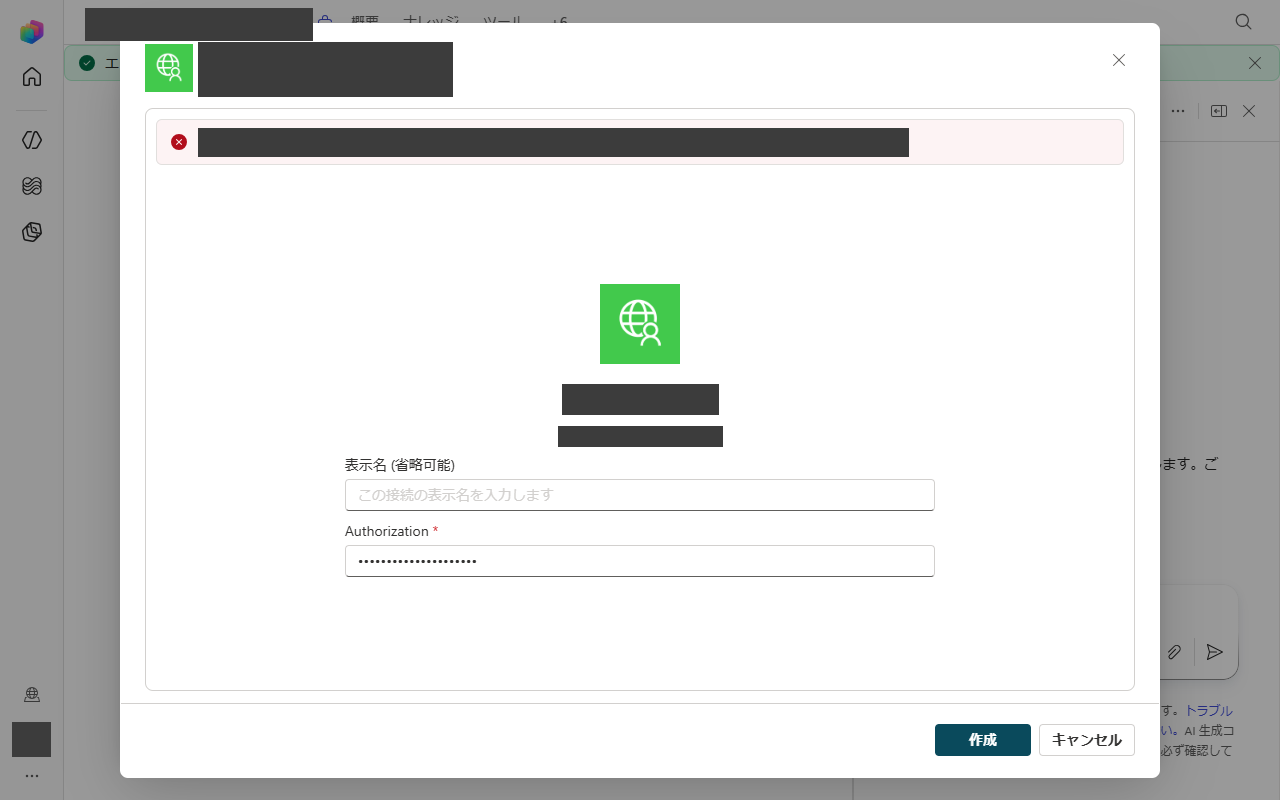
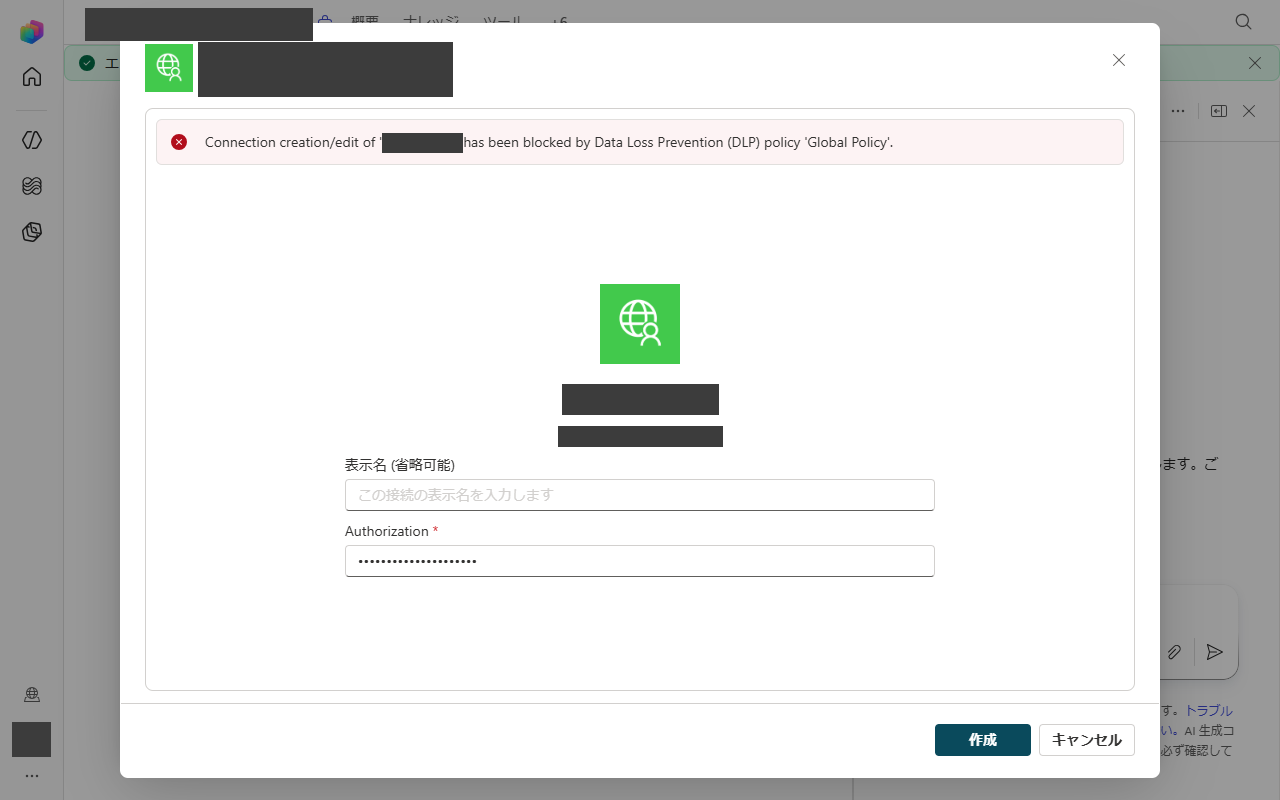
docs: show the policy message in the first screenshot; trim needless commas (#196)

Changed region(s): [[0.1562, 0.1562, 0.7188, 0.2188]]

diff --git a/docs/connector_less_route.md b/docs/connector_less_route.md
@@ -6,15 +6,15 @@
 
 通常、Copilot Studio のエージェントはカスタムコネクタ(MCP コネクタ)を持ち、Dev Tunnel を通してこの PC のツールに届きます。これが**コネクタ経路**です。
 
-**コネクタなし経路**は、コネクタもトンネルも使いません。エージェントは、コネクタも自前のツールも持たない普通の Standard エージェントです。ツールを使いたいときは、チャットの返信に、次のようなコードブロックで呼び出しを書きます。
+**コネクタなし経路**はコネクタもトンネルも使いません。エージェントはコネクタも自前のツールも持たない普通の Standard エージェントです。ツールを使いたいときはチャットの返信に次のようなコードブロックで呼び出しを書きます。
 
     ```call_tool
     {"name": "read_file", "arguments": {"path": "..."}}
     ```
 
-この PC がそのブロックを読み取り、手元のサーバー(`http://127.0.0.1:8000`)に呼び出しを実行して、結果を次のチャットのメッセージで返します。外からこの PC に接続するものはないので、トンネルも公開 URL も、登録するコネクタも要りません。
+この PC がそのブロックを読み取り、手元のサーバー(`http://127.0.0.1:8000`)に呼び出しを実行して、結果を次のチャットのメッセージで返します。外からこの PC に接続するものはないのでトンネルも公開 URL も登録するコネクタも要りません。
 
-どちらの経路も使えます。既定はコネクタ経路のままなので、もう一方を選ばないマシンは何も変わりません。
+どちらの経路も使えます。既定はコネクタ経路のままなのでもう一方を選ばないマシンは何も変わりません。
 
 ## 必要なもの
 
@@ -28,46 +28,46 @@ Dev Tunnel CLI、トンネル、コネクタ、アクセス許可は要りませ
 1. `quickstart.bat` を実行します。「How should Copilot Studio be allowed to reach this machine?」と聞かれたら **L**(connector-less)を押します。アクセスの質問と Dev Tunnel の手順は省かれます。
 2. Copilot Studio で **Standard** エージェントを作ります。**Tools** の一覧は空のままにして、コネクタは追加しません。公開します。
 3. 公開したエージェントを Microsoft 365 Copilot に追加します(Channels から Microsoft 365 Copilot)。そこでエージェントを開き、チャット画面のアドレスをアドレスバーからコピーします。
-4. `quickstart.bat` が開くダイアログに、そのアドレスを貼ります(あとから貼るなら `configure_env.bat`)。エージェントの URL として保存されます。
-5. `docs/examples/connector_less_agent_instructions.txt` の文章を、Copilot Studio のエージェントの **Instructions** に貼って、もう一度公開します。これがないと、Microsoft のツールも付いているエージェントが、コードブロックによる呼び出しを断ることがあります(「そのツールは存在しません」と答える)。この文章を入れた状態では、測定したすべての実行で呼び出しが守られました。
-6. メールや予定表を使うなら、同じエージェントに Copilot Studio で **Microsoft Work IQ** のツールを追加します。エージェントが初めてそのツールを使うときに、チャットに同意カードが出ます。一度だけ承認してください。
-7. `start_all.bat` を実行します(`quickstart.bat` を最後まで進めてもかまいません)。`doctor.bat` には、Dev Tunnel の確認の代わりに「Tool route: connector-less」という情報の行が1つ出ます。
+4. `quickstart.bat` が開くダイアログにそのアドレスを貼ります(あとから貼るなら `configure_env.bat`)。エージェントの URL として保存されます。
+5. `docs/examples/connector_less_agent_instructions.txt` の文章を Copilot Studio のエージェントの **Instructions** に貼って、もう一度公開します。これがないと Microsoft のツールも付いているエージェントが、コードブロックによる呼び出しを断ることがあります(「そのツールは存在しません」と答える)。この文章を入れた状態では測定したすべての実行で呼び出しが守られました。
+6. メールや予定表を使うなら同じエージェントに Copilot Studio で **Microsoft Work IQ** のツールを追加します。エージェントが初めてそのツールを使うときにチャットに同意カードが出ます。一度だけ承認してください。
+7. `start_all.bat` を実行します(`quickstart.bat` を最後まで進めてもかまいません)。`doctor.bat` には Dev Tunnel の確認の代わりに「Tool route: connector-less」という情報の行が1つ出ます。
 
 ## すでにコネクタ経路で使っている人の移行手順
 
-専用のインストーラーはありません。同じ製品で、同じ `quickstart.bat` と `start_all.bat` を使います。スキル、フリート、記憶、設定はそのまま残ります。変わるのは、エージェントと設定1つだけです。
+専用のインストーラーはありません。同じ製品で同じ `quickstart.bat` と `start_all.bat` を使います。スキル、フリート、記憶、設定はそのまま残ります。変わるのはエージェントと設定1つだけです。
 
-1. **今のエージェントとコネクタは、そのまま残します。** 戻るときに使います(「元に戻す」を見てください)。今使っているエージェントの URL(`MCP_IMPL_AGENT_URL`。`MCP_FLEET_AGENT_URL` を設定している場合はそれも)を控えておきます。
-2. Copilot Studio で、**コネクタもツールも付けない**新しい **Standard** エージェントを作ります。Instructions に上の手順5の文章を貼り、メールや予定表が要るなら Work IQ のツールを追加して、公開します。そのうえで Microsoft 365 Copilot に追加し、チャット画面のアドレスをコピーします。今のエージェントからコネクタを外して使い回せるかは、試していません。確認できているのは、新しいエージェントを作る方法です。
+1. **今のエージェントとコネクタはそのまま残します。** 戻るときに使います(「元に戻す」を見てください)。今使っているエージェントの URL(`MCP_IMPL_AGENT_URL`。`MCP_FLEET_AGENT_URL` を設定している場合はそれも)を控えておきます。
+2. Copilot Studio で、**コネクタもツールも付けない**新しい **Standard** エージェントを作ります。Instructions に上の手順5の文章を貼り、メールや予定表が要るなら Work IQ のツールを追加して、公開します。そのうえで Microsoft 365 Copilot に追加し、チャット画面のアドレスをコピーします。今のエージェントからコネクタを外して使い回せるかは試していません。確認できているのは新しいエージェントを作る方法です。
 3. `configure_env.bat` を実行して、エージェントの URL(フリート用を設定している場合はそれも)を新しいものに置き換えます。
-4. コックピットの**設定**を開き、**ツール**の中の**ツールの接続方式**(英語表示では「Tool route」)を**コネクタなし**(英語表示では「Connector-less」)に切り替えます。フリートが次に作る会話から、再起動なしで反映されます。すでに動いている会話は、始まったときの経路のままです。
-5. 動いている Dev Tunnel はそのままにします。supervisor はその管理をやめますが、動いているホストを止めることはありません。古いコネクタは、削除するまで、そのトンネルを指したままです。
-6. 確認します。`doctor.bat` に「Tool route: connector-less」と出ること。そのうえで、本番で頼る前に、フリートに小さな作業を1つ(ファイルを読む、次にデータベースを読む)させてみてください。
+4. コックピットの**設定**を開き、**ツール**の中の**ツールの接続方式**(英語表示では「Tool route」)を**コネクタなし**(英語表示では「Connector-less」)に切り替えます。フリートが次に作る会話から再起動なしで反映されます。すでに動いている会話は始まったときの経路のままです。
+5. 動いている Dev Tunnel はそのままにします。supervisor はその管理をやめますが、動いているホストを止めることはありません。古いコネクタは削除するまでそのトンネルを指したままです。
+6. 確認します。`doctor.bat` に「Tool route: connector-less」と出ること。そのうえで本番で頼る前にフリートに小さな作業を1つ(ファイルを読む、次にデータベースを読む)させてみてください。
 
-この経路では、Dev Tunnel もコネクタも要りません。元に戻すことはないと確信できてから、Copilot Studio 側で削除してください。
+この経路では Dev Tunnel もコネクタも要りません。元に戻すことはないと確信できてから Copilot Studio 側で削除してください。
 
 ## エージェントに渡す指示
 
-コネクタ経路では、エージェントがサーバーに接続したときに、サーバー自身の指示が渡ります。コネクタなしのエージェントには接続がないので、この PC が動いているサーバーから同じ指示を読み取り、会話の最初に一度だけ(その会話ではそれ以降は送りません)、ツールの説明の前に付けて送ります。指示は定期的に読み直します。会話の開始時にサーバーに届かなかった場合は、指示なしで会話を始め、ログに1行残します。
+コネクタ経路ではエージェントがサーバーに接続したときにサーバー自身の指示が渡ります。コネクタなしのエージェントには接続がないのでこの PC が動いているサーバーから同じ指示を読み取り、会話の最初に一度だけ(その会話ではそれ以降は送りません)、ツールの説明の前に付けて送ります。指示は定期的に読み直します。会話の開始時にサーバーに届かなかった場合は指示なしで会話を始め、ログに1行残します。
 
 ## メールと予定表
 
-エージェントに追加した Work IQ のツールをそのまま使います。これらは `call_tool` の中にはありません。普通の Microsoft 365 のチャットと同じように、エージェントが自分で呼び出します。この PC が渡すツール一覧には、名前が `outlook` で始まるツールは入れません。そのようなツールの呼び出しは断ります。この製品がデスクトップのメールソフトを起動することはありません。
+エージェントに追加した Work IQ のツールをそのまま使います。これらは `call_tool` の中にはありません。普通の Microsoft 365 のチャットと同じようにエージェントが自分で呼び出します。この PC が渡すツール一覧には名前が `outlook` で始まるツールは入れません。そのようなツールの呼び出しは断ります。この製品がデスクトップのメールソフトを起動することはありません。
 
 ## リスクと制限
 
-- **呼び出しはモデルが書きます。** できることはコネクタ経路と同じですが、ブロックの書き間違い(項目の抜け、余計な文字)があると、そのターンは無駄になります。エラーはモデルに返され、たいていは自分で直します。
-- **1ターンが遅くなります。** ツールを呼ぶたびに、チャットが1往復します。このため、この経路ではフリートの無応答の上限とターンの上限を長くしています(既定は、無応答 600 秒、1ターン 1200 秒)。
-- **チャットの長さの制限を受けます。** 結果が非常に大きいときは、モデルに返す前に切り詰め、切り詰めたことをモデルに伝えます。
+- **呼び出しはモデルが書きます。** できることはコネクタ経路と同じですが、ブロックの書き間違い(項目の抜け、余計な文字)があるとそのターンは無駄になります。エラーはモデルに返され、たいていは自分で直します。
+- **1ターンが遅くなります。** ツールを呼ぶたびにチャットが1往復します。このため、この経路ではフリートの無応答の上限とターンの上限を長くしています(既定は、無応答 600 秒、1ターン 1200 秒)。
+- **チャットの長さの制限を受けます。** 結果が非常に大きいときはモデルに返す前に切り詰め、切り詰めたことをモデルに伝えます。
 - **権限はコネクタ経路と同じです。** サーバー自身の確認(アンロック、ツールごとの権限、フォルダーの規則)が、すべての呼び出しにかかります。この経路で使える範囲が増えることはなく、確認が減ることもありません。
-- **同意カードが出ます。** Work IQ のツールは、初回にチャットで同意を求めます。承認するまで、メールと予定表の依頼は失敗します。
-- **すべての環境での動作は確認していません。** 試したのは、短い作業と長い作業、データベースの読み取り、(Work IQ を付けた場合の)メールと予定表です。ほかのエージェント、テナント、ポリシーでは違う動きをするかもしれません。まず小さな作業で試してください。
+- **同意カードが出ます。** Work IQ のツールは初回にチャットで同意を求めます。承認するまでメールと予定表の依頼は失敗します。
+- **すべての環境での動作は確認していません。** 試したのは短い作業と長い作業、データベースの読み取り、(Work IQ を付けた場合の)メールと予定表です。ほかのエージェント、テナント、ポリシーでは違う動きをするかもしれません。まず小さな作業で試してください。
 
 ## 元に戻す
 
-**設定**の**ツール**を開き、**ツールの接続方式**(英語表示では「Tool route」)を**コネクタ(従来)**(英語表示では「Connector」)にします。そして `configure_env.bat` で、控えておいた古いエージェントの URL を戻します。次の会話から、またコネクタ経路を使います。そのマシンでトンネルを一度も作ったことがなければ、もう一度 `quickstart.bat` を実行し、アクセスの質問に **A** か **T** と答えてください。省かれていた Dev Tunnel の手順が実行されます。
+**設定**の**ツール**を開き、**ツールの接続方式**(英語表示では「Tool route」)を**コネクタ(従来)**(英語表示では「Connector」)にします。そして `configure_env.bat` で控えておいた古いエージェントの URL を戻します。次の会話からまたコネクタ経路を使います。そのマシンでトンネルを一度も作ったことがなければもう一度 `quickstart.bat` を実行し、アクセスの質問に **A** か **T** と答えてください。省かれていた Dev Tunnel の手順が実行されます。
 
-設定ファイルには、`tool_transport=connector` または `tool_transport=connector-less` として保存されます。以前の書き方 `tool_transport=bridge` も、コネクタなしとして読み取ります。
+設定ファイルには、`tool_transport=connector` または `tool_transport=connector-less` として保存されます。以前の書き方 `tool_transport=bridge` もコネクタなしとして読み取ります。
 
 ---
 
